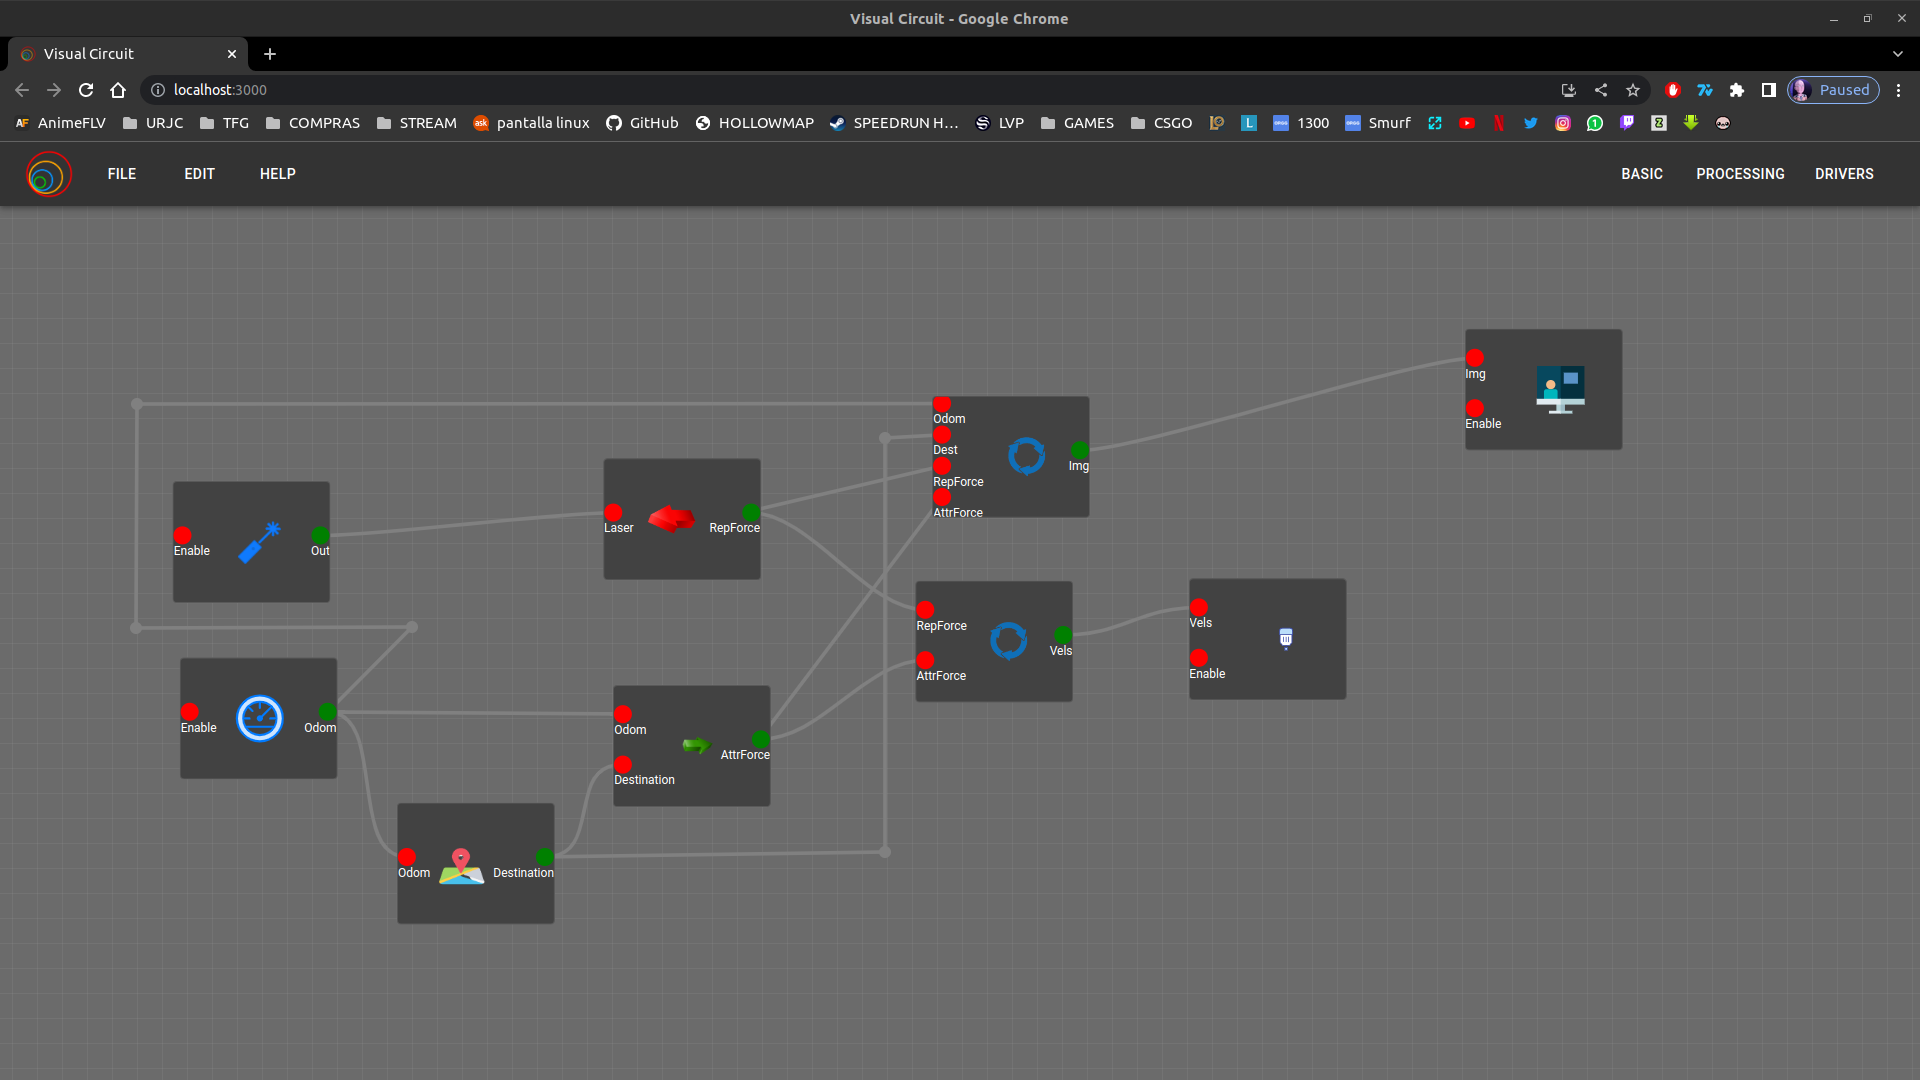
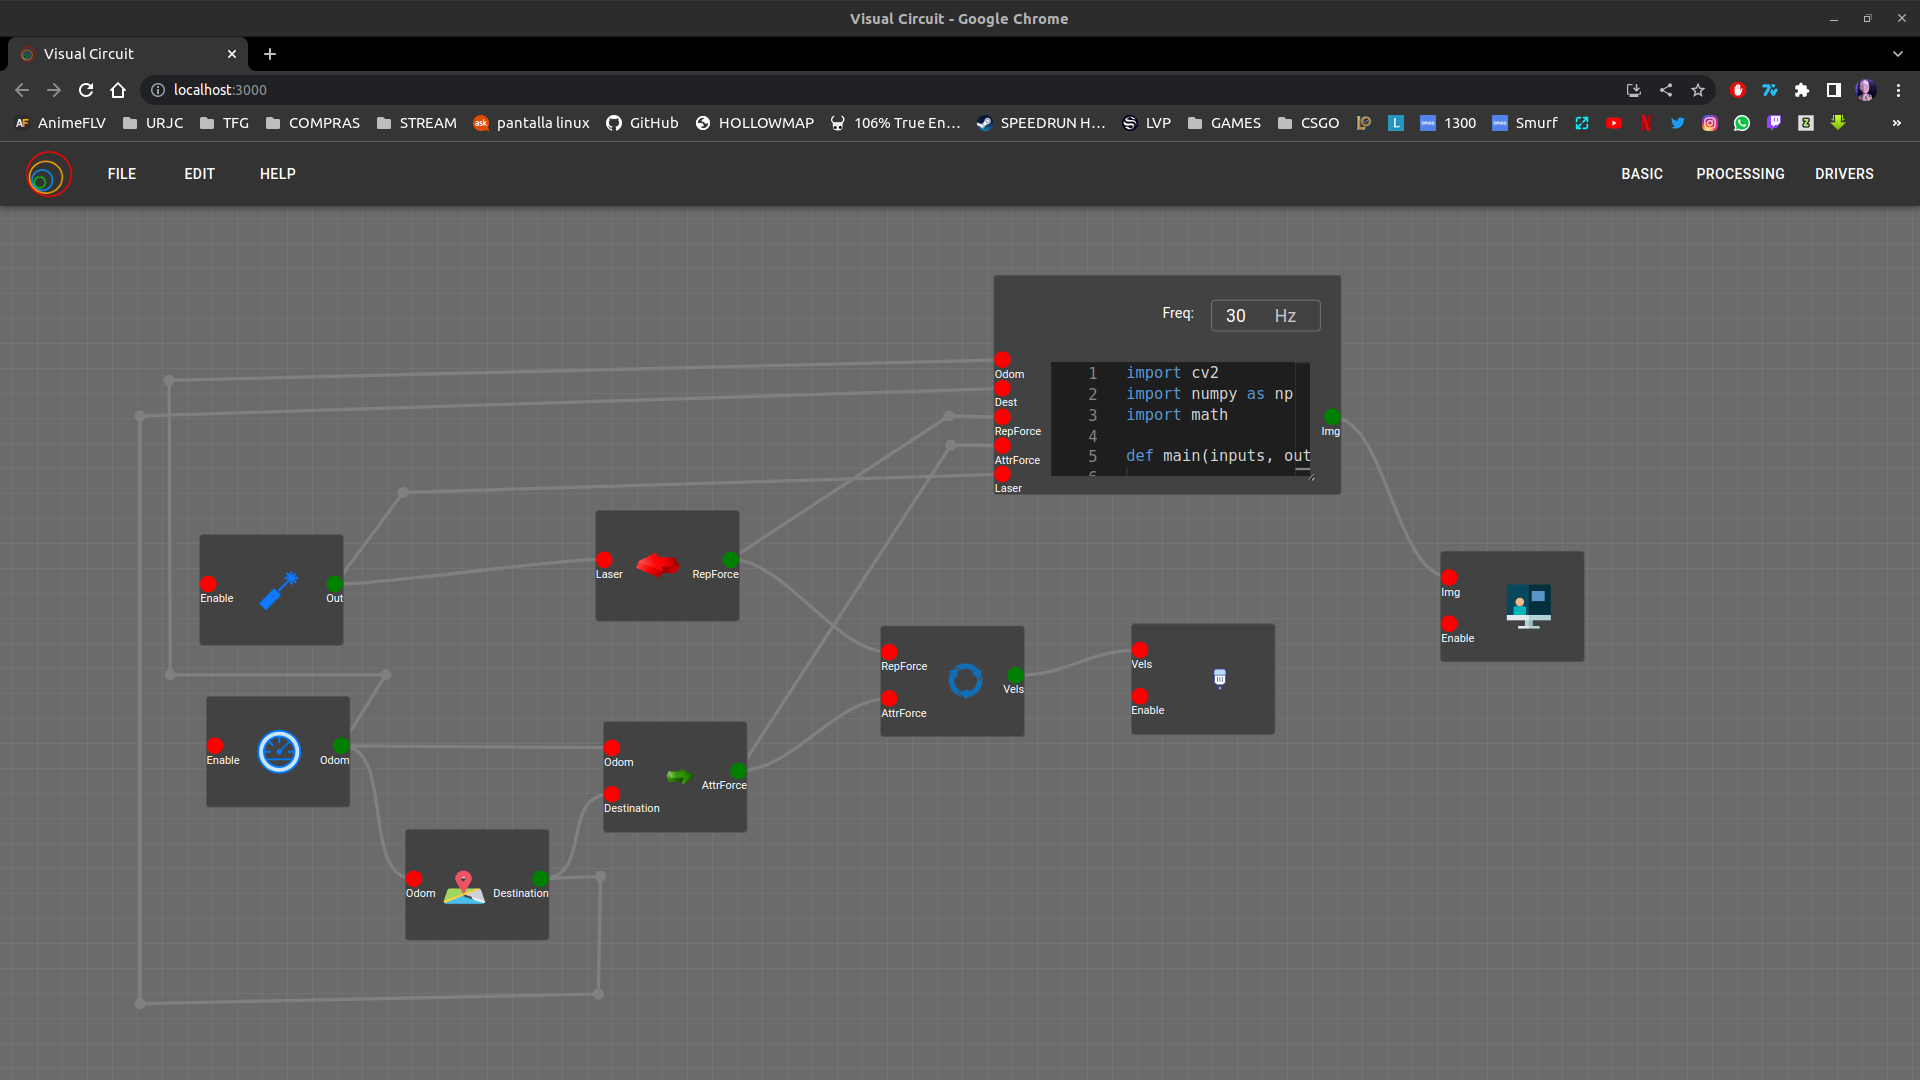
20th week, the last update

diff --git a/docs/_posts/2023-04-17-20th_week.md b/docs/_posts/2023-04-17-20th_week.md
@@ -7,7 +7,7 @@ tags:
   - ROS Humble
   - Visual Circuit
   - VFF
-youtubeId_VFF_final: T8QXnxTxpPU
+youtubeId_VFF_final: xdGCIrYFu7E
 ---
 
 This week I ended the VFF project.
@@ -16,7 +16,8 @@ The big problem I was facing with the attractive forces really was not that big.
 
 As we can see in the following video (as a difference with the 19th week which only used repulsive forces) is that now the robot takes the interior path in the turns and not the center of the circuit. This is caused by the attractive forces pulling the robot to the path of the objective and the repulsive forces making it not collide with the walls.
 
-I also added a debug block, which receives every data from the program (odom, destination, repulsive & attractive forces) and creates a grid showing the position of the robot, the destination and the rotational forces (green for the attractive and red for the repulsive) on it. The linear forces are not showed, as the robot is using a constant linear velocity.
+I also added a debug block, which receives every data from the program (odom, destination, repulsive & attractive forces) and creates a grid showing the position of the robot, the destination and the rotational forces (red for the attractive and brown for the repulsive) on it. The linear forces are not showed, as the robot is using a constant linear velocity. The laser measures are represented as black points around the robot.
+Also this block shows the direction of the robot (black arrow) and the velocities (linear "V", angluar "W" and both attractive and repulsive forces) as numbers in the right-down corner.
 
 Here is the VisualCircuit project showing everything:
 
@@ -30,5 +31,3 @@ And here is finally the video of everything working!!
 
 
 Now I'm working on the TFG's index for the final summary.
-
-
